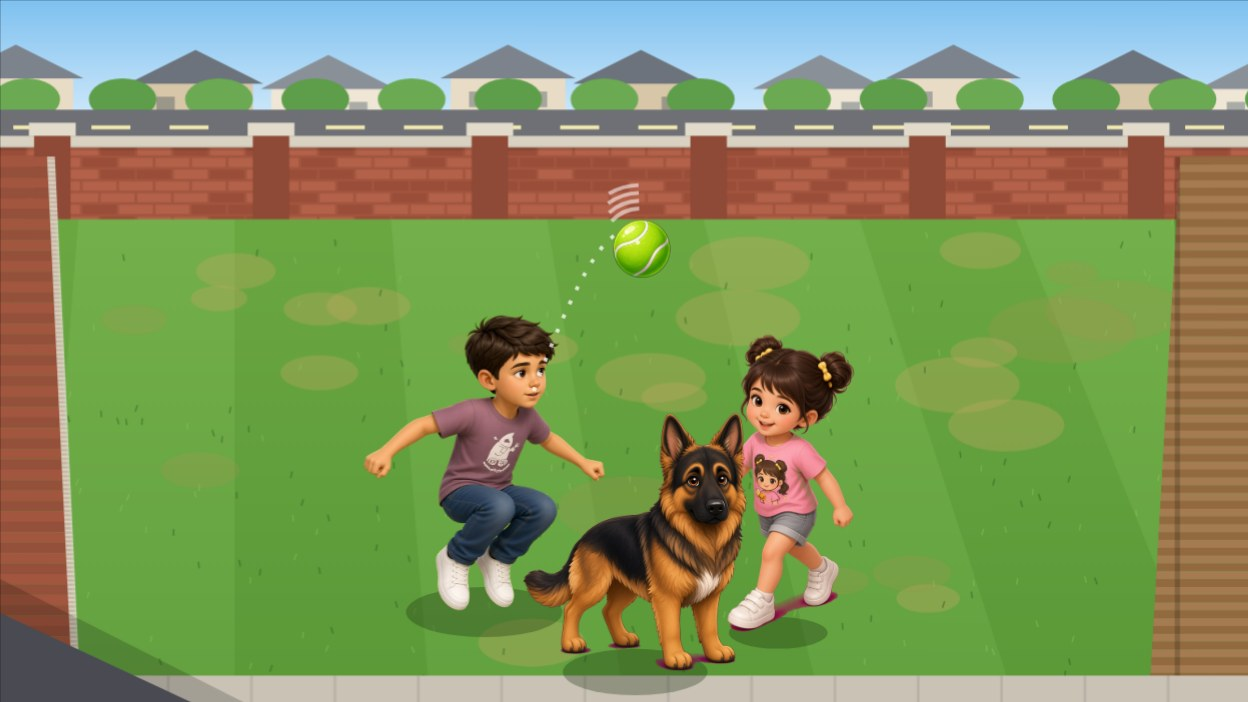
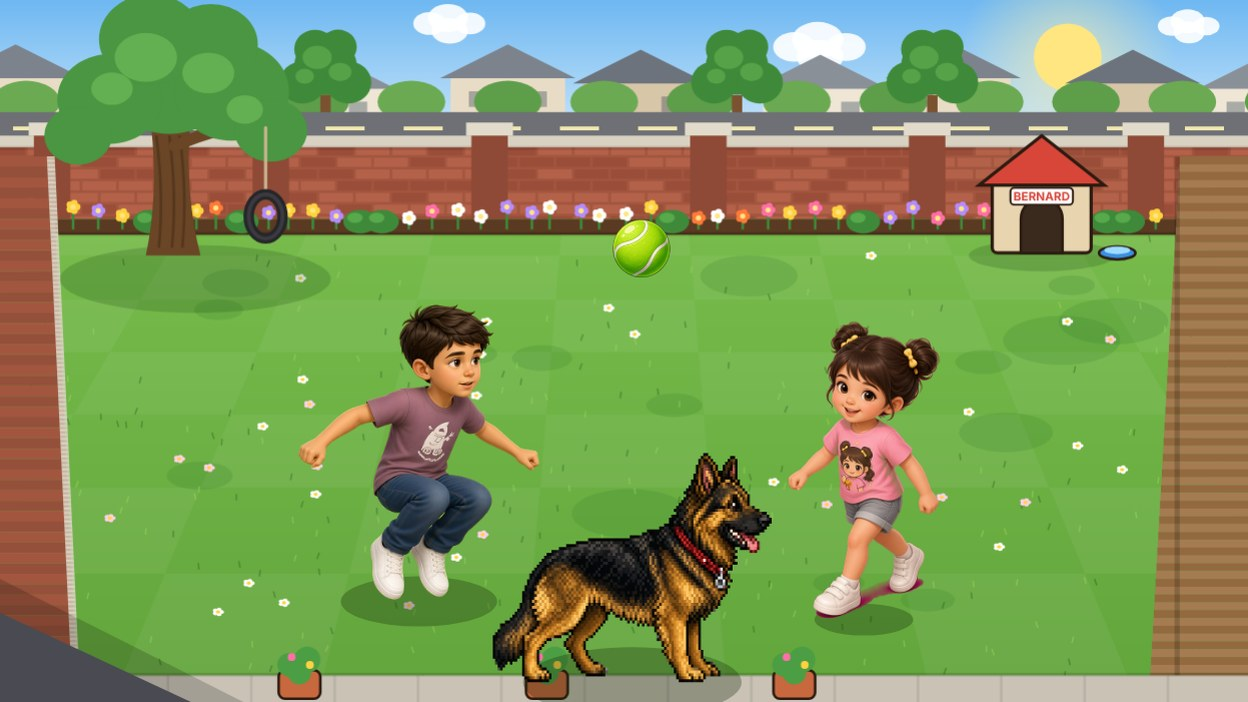
Keep-Away: pixel-art Bernard with walk and run animation
Bernard now uses a pixel-art sprite sheet (standing with tail wag, an
8-frame walk and an 8-frame run) instead of the single cartoon picture.
His legs cycle faster the faster he moves; pounce, tug, scoreboard
portraits, title screen and the menu card use the new art too.

Claude-Session: https://claude.ai/code/session_017biUWrnQhWGFJbgM6eHT2G

diff --git a/keepaway.js b/keepaway.js
@@ -86,7 +86,7 @@ function fitStage() {
 
 /* ---------------- art helpers ---------------- */
 const IMG = {};
-for (const [k, src] of [['nic', '/art/spr-hop-nic.png'], ['nicHop', '/art/spr-hop-nic-hop.png'], ['giulia', '/art/spr-hop-giulia.png'], ['giuliaHop', '/art/spr-hop-giulia-hop.png'], ['bernard', '/art/spr-hop-bernard.png'], ['tennis', '/art/spr-hop-ball.png'], ['bone', '/art/spr-hop-bone.png']]) { const i = new Image(); i.src = src; IMG[k] = i; }
+for (const [k, src] of [['nic', '/art/spr-hop-nic.png'], ['nicHop', '/art/spr-hop-nic-hop.png'], ['giulia', '/art/spr-hop-giulia.png'], ['giuliaHop', '/art/spr-hop-giulia-hop.png'], ['bernard', '/art/spr-ka-bernard.png'], ['tennis', '/art/spr-hop-ball.png'], ['bone', '/art/spr-hop-bone.png']]) { const i = new Image(); i.src = src; IMG[k] = i; }
 const ready = k => IMG[k] && IMG[k].complete && IMG[k].naturalWidth > 0;
 function rr(g, x, y, w, h, r) { r = Math.min(r, w / 2, h / 2); g.beginPath(); g.moveTo(x + r, y); g.arcTo(x + w, y, x + w, y + h, r); g.arcTo(x + w, y + h, x, y + h, r); g.arcTo(x, y + h, x, y, r); g.arcTo(x, y, x + w, y, r); g.closePath(); }
 function ell(g, x, y, rx, ry) { g.beginPath(); g.ellipse(x, y, Math.max(0, rx), Math.max(0, ry), 0, 0, TAU); }
@@ -312,7 +312,7 @@ function newMatch(m) {
 function startRound(i) {
   round = i; THEME = THEMES[i]; BALL = BALLS[THEME.ball]; timer = TUNE.roundTime; streak = 0; tug = null; lastTick = 99;
   kids = [newKid(0, 'nic', 206, 360), newKid(1, 'giulia', 754, 360)];
-  dog = { x: 480, y: 238, vx: 0, vy: 0, ctl: -1, face: -1, run: 0, busy: 0, crouch: 0, pounceT: 0, pounceCool: 1.5, px: 0, py: 0, barkCool: 0, barkT: 0, zoomT: 0, hyper: i ? .25 : 0, stealT: 0, keepT: 0, keepAcc: 0, tugImmune: 0, distract: null, speedT: 0, slowT: 0, fooledAt: -9, zoomWait: 0, wet: 0, mood: '', plan: 'guard', planT: 1.5 };
+  dog = { x: 480, y: 238, vx: 0, vy: 0, ctl: -1, face: -1, run: 0, anim: 0, busy: 0, crouch: 0, pounceT: 0, pounceCool: 1.5, px: 0, py: 0, barkCool: 0, barkT: 0, zoomT: 0, hyper: i ? .25 : 0, stealT: 0, keepT: 0, keepAcc: 0, tugImmune: 0, distract: null, speedT: 0, slowT: 0, fooledAt: -9, zoomWait: 0, wet: 0, mood: '', plan: 'guard', planT: 1.5 };
   ball = { state: 'held', holder: i % 2, x: 0, y: 0, z: 34, spin: 0 }; kids[i % 2].think = 1.2;
   particles = []; floats = []; powerups = []; ring = null; squirrel = null; kidsDouble = dogDouble = 0;
   squirrelT = rnd(9, 15); powerT = rnd(4, 6); ringT = rnd(3, 5); sprT = 0;
@@ -388,14 +388,14 @@ function updateTug(dt) {
   const KI = k.ctl >= 0 ? PADS[k.ctl] : null, DI = dog.ctl >= 0 ? PADS[dog.ctl] : null;
   if (KI) { if (KI.hit.a || KI.hit.b || KI.hit.c || KI.hit.d) { tug.m += .14; sfx.tug(); } } else tug.m += (mode === 'kids' ? .36 : .34) * dt;
   if (DI) { if (DI.hit.a || DI.hit.b || DI.hit.c || DI.hit.d) { tug.m -= .12; sfx.tug(); } tug.m -= .05 * dt; } else tug.m -= (.24 + round * .04) * dt;
-  const mx = (k.x + dog.x) / 2 + (tug.m - .5) * 26 * (k.x >= dog.x ? 1 : -1), my = (k.y + dog.y) / 2; ball.x = mx + Math.sin(time * 40) * 2; ball.y = my; ball.z = 26;
+  const mx = (k.x + dog.x) / 2 + (tug.m - .5) * 26 * (k.x >= dog.x ? 1 : -1), my = (k.y + dog.y) / 2; ball.x = mx + Math.sin(time * 40) * 2; ball.y = my; ball.z = 44;
   if (tug.m >= 1) { tug = null; giveBall(k); k.catchCool = 1.1; k.cheer = .5; kidsPts(TUNE.tugWin, k.x, k.y, 'GOT IT BACK!', '#9CFF9C'); sfx.win(); dog.busy = 1.0; dog.mood = 'dizzy'; dog.x -= dog.face * 22; keepIn(dog, 18); dog.pounceCool = 1.6; fx(k.x, k.y, 10, '#9CFF9C', { z: 40, kind: 'star' }); }
   else if (tug.m <= 0 || tug.t > 3.2) { const hands = tug.hands; tug = null; k.stun = .55; k.x -= k.face * -16; keepIn(k); if (hands) dogGetsBall('steal'); else { ball.state = 'dog'; dog.tugImmune = 1.5; dogPts(15, dog.x, dog.y, 'MINE!'); sfx.bark(); } }
 }
 function updateBall(dt) {
   const b = ball; b.spin += dt * (b.state === 'air' ? 14 : b.state === 'ground' ? Math.hypot(b.vx, b.vy) * .03 : 0);
   if (b.state === 'held') { const k = kids[b.holder], reach = k.fakeT > 0 ? Math.sin((1 - k.fakeT / .32) * Math.PI) * 26 : 0; b.x = k.x + k.face * (16 + reach); b.y = k.y + .5; b.z = 40 + (k.fakeT > 0 ? 8 : 0); return; }
-  if (b.state === 'dog') { b.x = dog.x + dog.face * 26; b.y = dog.y + .5; b.z = 24; return; }
+  if (b.state === 'dog') { b.x = dog.x + dog.face * 49; b.y = dog.y + .5; b.z = 50; return; }
   if (b.state === 'tug') return;
   if (b.state === 'air') {
     const r = kids[b.to]; b.t += dt / b.dur;
@@ -530,7 +530,7 @@ function updateDog(dt) {
   else if (dog.ctl >= 0) humanDog(dt); else cpuDog(dt);
   if (tug) return;
   dog.x += dog.vx * dt; dog.y += dog.vy * dt * .86; keepIn(dog, 18);
-  const sp = Math.hypot(dog.vx, dog.vy); if (sp > 30) { dog.run += dt * sp * .06; if (Math.abs(dog.vx) > 24) dog.face = dog.vx > 0 ? 1 : -1; if (Math.random() < dt * (dog.zoomT > 0 ? 24 : 5)) fx(dog.x - dog.face * 16, dog.y, 1, dog.zoomT > 0 ? '#FFD23F' : 'rgba(230,246,200,.8)', { up: 16, s1: 40, r1: 3.5 }); }
+  const sp = Math.hypot(dog.vx, dog.vy); if (sp > 30) { dog.run += dt * sp * .06; dog.anim += dt * (sp > 135 ? clamp(sp / 80, 2.2, 3.6) : clamp(sp / 60, 1.1, 2.2)); if (Math.abs(dog.vx) > 24) dog.face = dog.vx > 0 ? 1 : -1; if (Math.random() < dt * (dog.zoomT > 0 ? 24 : 5)) fx(dog.x - dog.face * 40, dog.y, 1, dog.zoomT > 0 ? '#FFD23F' : 'rgba(230,246,200,.8)', { up: 16, s1: 40, r1: 3.5 }); }
   if (ball.state === 'dog') { // keeping it: points every second, kids have to catch him and tug it back
     dog.keepT += dt; dog.keepAcc += dt; if (dog.keepAcc >= 1) { dog.keepAcc -= 1; dogPts(TUNE.keepPts, dog.x, dog.y, ''); }
     if (dog.keepT >= TUNE.keepMax) { dogDrops(true); return; }
@@ -623,8 +623,16 @@ function shadow(x, y, rx, a) { ell(ctx, x, y, rx, rx * .32); fs(ctx, 'rgba(20,40
 function panel(x, y, w, h, col) { rr(ctx, x, y, w, h, 12); fs(ctx, 'rgba(10,14,26,.8)', col || 'rgba(255,255,255,.18)', col ? 2.5 : 1.5); }
 const KCOL = { nic: '#3AB8FF', giulia: '#FF7AB8' };
 function sprite(key, x, y, h, flip, rot, alpha) { const img = IMG[key]; if (!ready(key)) return false; const w = h * img.naturalWidth / img.naturalHeight; ctx.save(); ctx.translate(x, y); if (flip) ctx.scale(-1, 1); if (rot) ctx.rotate(rot); if (alpha != null) ctx.globalAlpha = alpha; ctx.drawImage(img, -w / 2, -h, w, h); ctx.restore(); return true; }
+// Bernard is a pixel-art sheet: 5 across, frames 0-3 standing (tail wag), 4-11 walk, 12-19 run. He faces left in the art.
+const BSHEET = { fw: 690, fh: 504, cols: 5, feet: 80 / 84, tall: 468 };
+function bern(frame, x, y, h, flip, rot, alpha, squat) { // (x, y) is the ground under his middle; h is ears-to-paws height
+  if (!ready('bernard')) return false; const B = BSHEET, k = h / B.tall, w = B.fw * k, fh = B.fh * k * (squat || 1);
+  ctx.save(); ctx.translate(x, y); if (flip) ctx.scale(-1, 1); if (rot) ctx.rotate(rot); if (alpha != null) ctx.globalAlpha = alpha;
+  ctx.drawImage(IMG.bernard, (frame % B.cols) * B.fw, Math.floor(frame / B.cols) * B.fh, B.fw, B.fh, -w / 2, -fh * B.feet, w, fh); ctx.restore(); return true;
+}
+const bernWalk = t => 4 + (Math.floor(t * 8) % 8 + 8) % 8, bernRun = t => 12 + (Math.floor(t * 8) % 8 + 8) % 8, bernStand = () => Math.floor(time * 7) % 4;
 // a round head cut out of a sprite, for the scoreboard
-function head(key, x, y, r, fy) { const img = IMG[key]; ell(ctx, x, y, r, r); fs(ctx, '#F4E9D8', INK, 2.5); if (!ready(key)) return; ctx.save(); ell(ctx, x, y, r - 1, r - 1); ctx.clip(); const s = img.naturalWidth * (key === 'bernard' ? .62 : .9); ctx.drawImage(img, (img.naturalWidth - s) * (key === 'bernard' ? .12 : .5), img.naturalHeight * (fy || 0), s, s, x - r, y - r, r * 2, r * 2); ctx.restore(); ell(ctx, x, y, r, r); fs(ctx, null, INK, 2.5); }
+function head(key, x, y, r, fy) { const img = IMG[key]; ell(ctx, x, y, r, r); fs(ctx, '#F4E9D8', INK, 2.5); if (!ready(key)) return; ctx.save(); ell(ctx, x, y, r - 1, r - 1); ctx.clip(); if (key === 'bernard') { ctx.drawImage(img, 36, 0, 212, 212, x - r, y - r, r * 2, r * 2); ctx.restore(); ell(ctx, x, y, r, r); fs(ctx, null, INK, 2.5); return; } const s = img.naturalWidth * (key === 'bernard' ? .62 : .9); ctx.drawImage(img, (img.naturalWidth - s) * (key === 'bernard' ? .12 : .5), img.naturalHeight * (fy || 0), s, s, x - r, y - r, r * 2, r * 2); ctx.restore(); ell(ctx, x, y, r, r); fs(ctx, null, INK, 2.5); }
 function drawKid(k) {
   const moving = Math.hypot(k.vx, k.vy) > 30, jump = k.cheer > 0 ? Math.sin(Math.min(1, k.cheer / .35) * Math.PI) * 16 : 0, bob = moving ? Math.abs(Math.sin(k.run)) * 5 : Math.sin(time * 2 + k.i * 2) * 1.2;
   const hopKey = k.who === 'nic' ? 'nicHop' : 'giuliaHop', useHop = (k.dashT > 0 || k.cheer > 0 || k.fakeT > 0 || (moving && Math.sin(k.run) > .3)) && ready(hopKey);
@@ -640,20 +648,22 @@ function drawKid(k) {
   if (k.ctl >= 0 && k.dashCool > 0 && k.dashT <= 0) { rr(ctx, k.x - 18, k.y + 30, 36, 5, 2.5); fs(ctx, 'rgba(0,0,0,.4)'); rr(ctx, k.x - 18, k.y + 30, 36 * (1 - k.dashCool / TUNE.dashCool), 5, 2.5); fs(ctx, '#9EE8FF'); }
 }
 function drawDog() {
-  const D = dog, moving = Math.hypot(D.vx, D.vy) > 30, bob = moving ? Math.abs(Math.sin(D.run)) * 6 : 0, hop = D.pounceT > 0 ? Math.sin((1 - D.pounceT / TUNE.pounceTime) * Math.PI) * 30 : 0;
-  const squat = D.crouch > 0 ? .8 : D.mood === 'munch' ? .9 + Math.sin(time * 18) * .04 : 1, tugging = !!tug;
-  shadow(D.x, D.y, 30, .3 - hop * .004);
-  if (D.crouch > 0) { ell(ctx, D.x, D.y, 46 + Math.sin(time * 30) * 4, 15); fs(ctx, null, 'rgba(255,90,60,.8)', 3); }
-  const img = IMG.bernard, h = 112 * squat, flip = D.face > 0, rot = (tugging ? .2 : D.pounceT > 0 ? -.3 : D.mood === 'dizzy' ? Math.sin(time * 9) * .12 : moving ? Math.sin(D.run * .5) * .06 : 0);
-  const x = D.x + (tugging || D.crouch > 0 ? Math.sin(time * 38) * 2 : 0), y = D.y - bob - hop;
-  if (D.zoomT > 0 || D.speedT > 0) for (let i = 2; i >= 1; i--) sprite('bernard', x - D.vx * .035 * i, y, h, flip, rot, .22);
-  if (!sprite('bernard', x, y, h, flip, rot)) { ell(ctx, x, y - 40, 40, 26); fs(ctx, '#3A2A1E'); }
-  if (D.zoomT > 0) { ell(ctx, D.x, D.y - 50, 54, 62); fs(ctx, null, 'rgba(255,210,63,' + (.35 + Math.sin(time * 20) * .2) + ')', 4); }
-  if (D.barkT > 0) for (let i = 0; i < 3; i++) { ctx.beginPath(); ctx.arc(D.x + D.face * 30, D.y - 60, 20 + i * 16 + (1 - D.barkT / .35) * 30, D.face > 0 ? -.7 : Math.PI - .7, D.face > 0 ? .7 : Math.PI + .7); ctx.strokeStyle = 'rgba(255,255,255,' + D.barkT * 2 + ')'; ctx.lineWidth = 4; ctx.stroke(); }
+  const D = dog, sp = Math.hypot(D.vx, D.vy), moving = sp > 30, running = sp > 135, air = D.pounceT > 0, tugging = !!tug;
+  const cyc = D.anim * TAU, bob = air || !moving ? 0 : running ? 3 + Math.sin(cyc * 2) * 3 : Math.abs(Math.sin(cyc * 2)) * 1.5, p = air ? 1 - D.pounceT / TUNE.pounceTime : 0, hop = air ? Math.sin(p * Math.PI) * 30 : 0;
+  const squat = D.crouch > 0 ? .82 : D.mood === 'munch' ? .92 + Math.sin(time * 18) * .04 : 1;
+  shadow(D.x, D.y, 46, .3 - hop * .004);
+  if (D.crouch > 0) { ell(ctx, D.x, D.y, 62 + Math.sin(time * 30) * 4, 18); fs(ctx, null, 'rgba(255,90,60,.8)', 3); }
+  const h = 100, flip = D.face > 0, rot = tugging ? .16 : air ? lerp(.26, -.2, p) : D.mood === 'dizzy' ? Math.sin(time * 9) * .12 : running ? Math.sin(cyc) * .05 : 0;
+  const frame = air ? 16 : tugging || D.crouch > 0 ? 0 : moving ? (running ? bernRun(D.anim) : bernWalk(D.anim)) : D.mood === 'dizzy' || D.mood === 'skid' ? 0 : bernStand();
+  const x = D.x + (tugging || D.crouch > 0 ? Math.sin(time * 38) * 2 : 0) - (tugging ? D.face * 30 : 0), y = D.y - bob - hop; // tugging: stand back so his mouth is on the ball
+  if (D.zoomT > 0 || D.speedT > 0) for (let i = 2; i >= 1; i--) bern(frame, x - D.vx * .035 * i, y, h, flip, rot, .22, squat);
+  if (!bern(frame, x, y, h, flip, rot, null, squat)) { ell(ctx, x, y - 40, 50, 26); fs(ctx, '#3A2A1E'); }
+  if (D.zoomT > 0) { ell(ctx, D.x, D.y - 48, 76, 62); fs(ctx, null, 'rgba(255,210,63,' + (.35 + Math.sin(time * 20) * .2) + ')', 4); }
+  if (D.barkT > 0) for (let i = 0; i < 3; i++) { ctx.beginPath(); ctx.arc(D.x + D.face * 54, D.y - 62, 20 + i * 16 + (1 - D.barkT / .35) * 30, D.face > 0 ? -.7 : Math.PI - .7, D.face > 0 ? .7 : Math.PI + .7); ctx.strokeStyle = 'rgba(255,255,255,' + D.barkT * 2 + ')'; ctx.lineWidth = 4; ctx.stroke(); }
   const note = D.mood === 'dizzy' ? '★' : D.mood === 'pant' ? 'pant… pant…' : D.mood === 'munch' ? 'nom nom' : D.mood === 'play' ? 'splash!' : D.mood === 'bark' ? 'WOOF! WOOF!' : D.slowT > 0 ? 'so full…' : '';
-  if (note) text(ctx, note, D.x + (note === '★' ? Math.sin(time * 10) * 14 : 0), D.y - 122, note === '★' ? 18 : 14, note === '★' ? '#FFE066' : '#FFFFFF', INK, 'center', 3);
+  if (note) text(ctx, note, D.x + (note === '★' ? Math.sin(time * 10) * 14 : 0), D.y - 116, note === '★' ? 18 : 14, note === '★' ? '#FFE066' : '#FFFFFF', INK, 'center', 3);
   if (D.ctl >= 0) { text(ctx, 'YOU', D.x, D.y + 18, 12, '#FFD23F', INK, 'center', 3); }
-  if (ball.state === 'dog' && !tug) { const f = 1 - D.keepT / TUNE.keepMax; rr(ctx, D.x - 26, D.y - 138, 52, 7, 3.5); fs(ctx, 'rgba(0,0,0,.45)'); rr(ctx, D.x - 26, D.y - 138, 52 * f, 7, 3.5); fs(ctx, '#FFB0A0'); }
+  if (ball.state === 'dog' && !tug) { const f = 1 - D.keepT / TUNE.keepMax; rr(ctx, D.x - 26, D.y - 132, 52, 7, 3.5); fs(ctx, 'rgba(0,0,0,.45)'); rr(ctx, D.x - 26, D.y - 132, 52 * f, 7, 3.5); fs(ctx, '#FFB0A0'); }
 }
 function drawBallAt(x, y, r, spin, B) {
   if (B.id === 'tennis' && ready('tennis')) { ctx.save(); ctx.translate(x, y); ctx.rotate(spin); ctx.drawImage(IMG.tennis, -r, -r, r * 2, r * 2); ctx.restore(); return; }
@@ -805,7 +815,7 @@ function drawEnd() {
   ctx.restore();
   // the winners bounce at the bottom
   const hop = i => Math.abs(Math.sin(time * 6 + i)) * 26;
-  if (stateT > .6) { if (kidsWin || tie) { sprite('nicHop', 96, H - 6 - hop(0), 150, false); sprite('giuliaHop', W - 96, H - 6 - hop(1.3), 150, true); } if (!kidsWin || tie) sprite('bernard', tie ? W / 2 : 110, H - 4 - hop(2), 132, true, Math.sin(time * 6) * .08); if (!kidsWin && !tie) drawBallAt(196, H - 40 - hop(2), 14, time * 3, { ...BALL, r: 14 }); }
+  if (stateT > .6) { if (kidsWin || tie) { sprite('nicHop', 96, H - 6 - hop(0), 150, false); sprite('giuliaHop', W - 96, H - 6 - hop(1.3), 150, true); } if (!kidsWin || tie) bern(bernStand(), tie ? W / 2 : 120, H - 4 - hop(2), 124, true, Math.sin(time * 6) * .08); if (!kidsWin && !tie) drawBallAt(200, H - 66 - hop(2), 14, time * 3, { ...BALL, r: 14 }); }
 }
 let endLine = ''; function pick1(a) { if (!endLine || !a.includes(endLine)) endLine = pick(a); return endLine; }
 function drawTitle() {
@@ -814,7 +824,7 @@ function drawTitle() {
   // a ball looping between the kids over Bernard's head
   const t = (time * .7) % 2, u = t < 1 ? t : 2 - t, bx = lerp(150, 810, ease(u)), by = 250 - Math.sin(u * Math.PI) * 120;
   sprite(t < 1 ? 'nicHop' : 'nic', 120, 500, 190, false); sprite(t < 1 ? 'giulia' : 'giuliaHop', 840, 500, 190, true);
-  sprite('bernard', 480 + Math.sin(time * 1.4) * 150, 512 - Math.abs(Math.sin(time * 5)) * 22, 150, Math.cos(time * 1.4) > 0);
+  bern(bernRun(time * 2.6), 480 + Math.sin(time * 1.4) * 150, 512, 140, Math.cos(time * 1.4) > 0, Math.sin(time * 2.6 * TAU) * .04);
   drawBallAt(bx, by, 16, time * 6, { ...BALLS[0], r: 16 });
   text(ctx, "BERNARD'S", W / 2, 62, 34, '#FFFFFF', INK, 'center', 8); text(ctx, 'KEEP-AWAY', W / 2, 116, 72, '#FFD23F', INK, 'center', 14);
   text(ctx, '3 rounds  ·  kids against Bernard  ·  most points wins', W / 2, 166, 16, '#FFFFFF', INK, 'center', 4);
@@ -871,7 +881,7 @@ window.KA = {
   poster() { // card art: the yard, the three of them close together, ball in the air (used to make art/card-keep.jpg)
     running = false; cancelAnimationFrame(raf); ctx.drawImage(yardFor(0), 0, 0, W, H);
     const put = (k, x, y, h, flip) => { const img = IMG[k]; if (!img.naturalWidth) return; shadow(x, y, h * img.naturalWidth / img.naturalHeight * .32, .3); sprite(k, x, y, h, flip); };
-    put('nicHop', 372, 470, 230, false); put('giulia', 598, 486, 230, true); put('bernard', 488, 516, 200, true);
+    put('nicHop', 322, 462, 230, false); put('giulia', 664, 476, 230, true); shadow(486, 524, 84, .3); bern(0, 486, 524, 176, true);
     if (ready('tennis')) ctx.drawImage(IMG.tennis, 470, 168, 46, 46);
   }
 };
